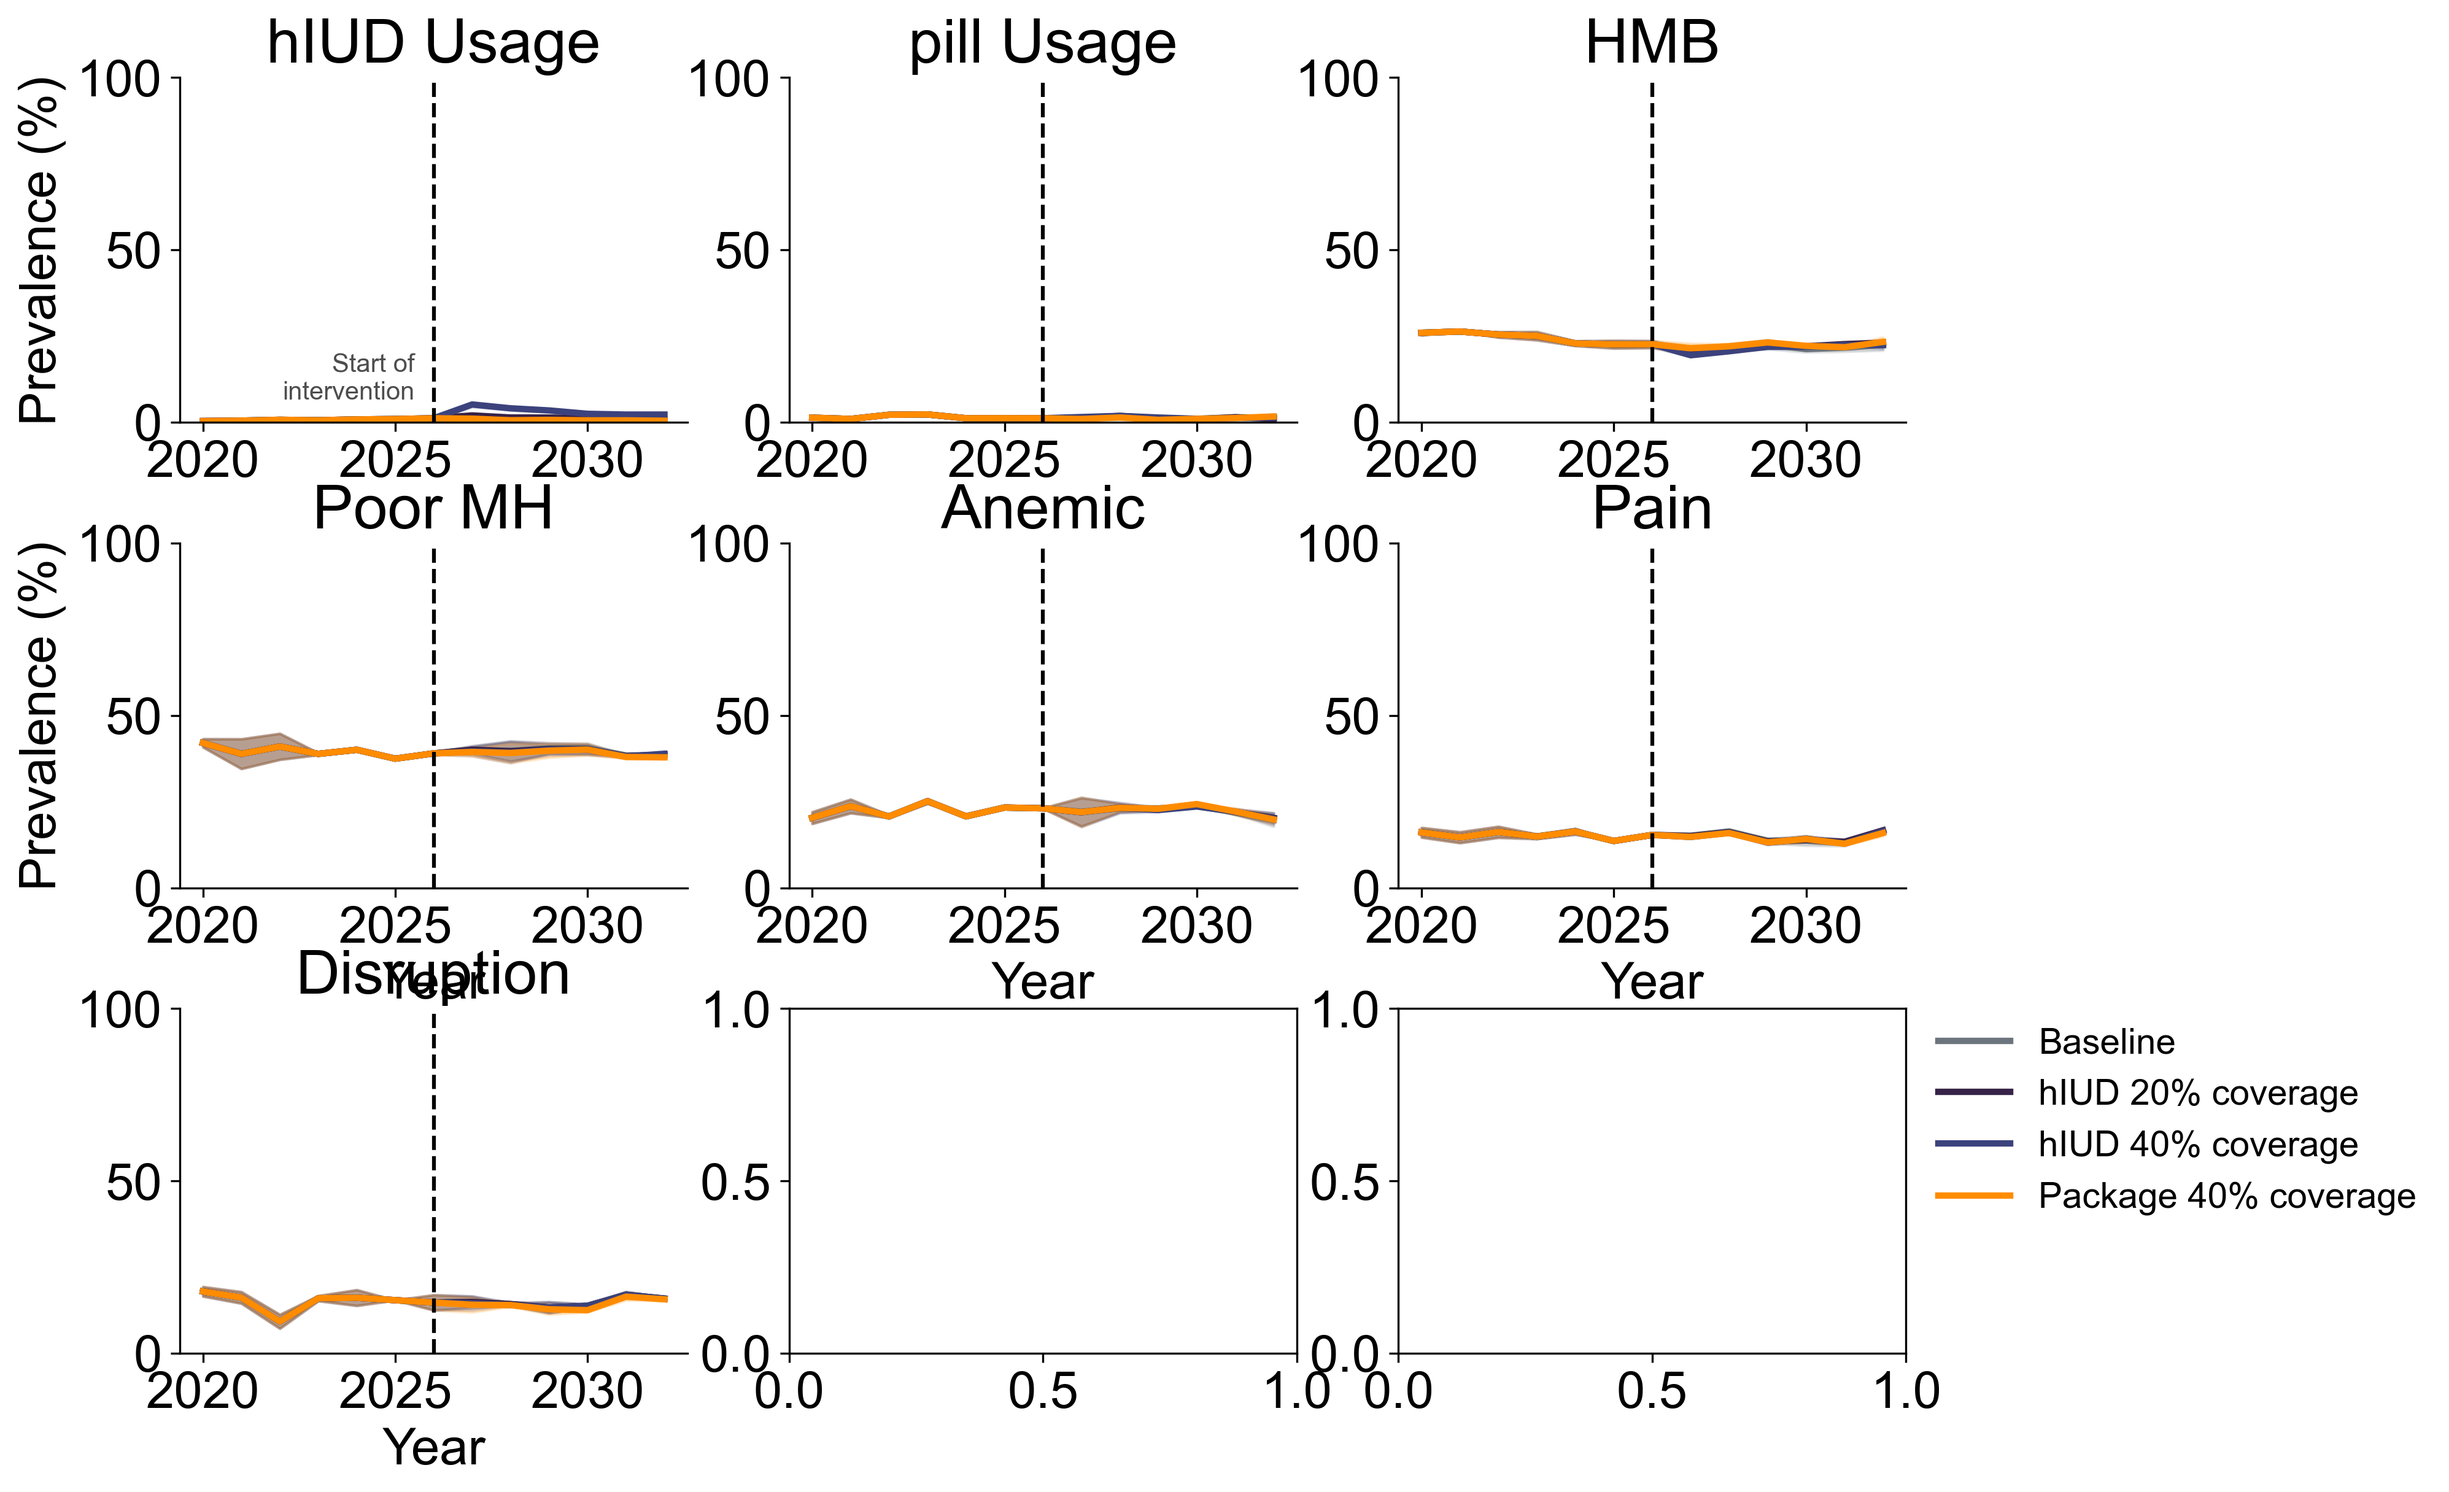
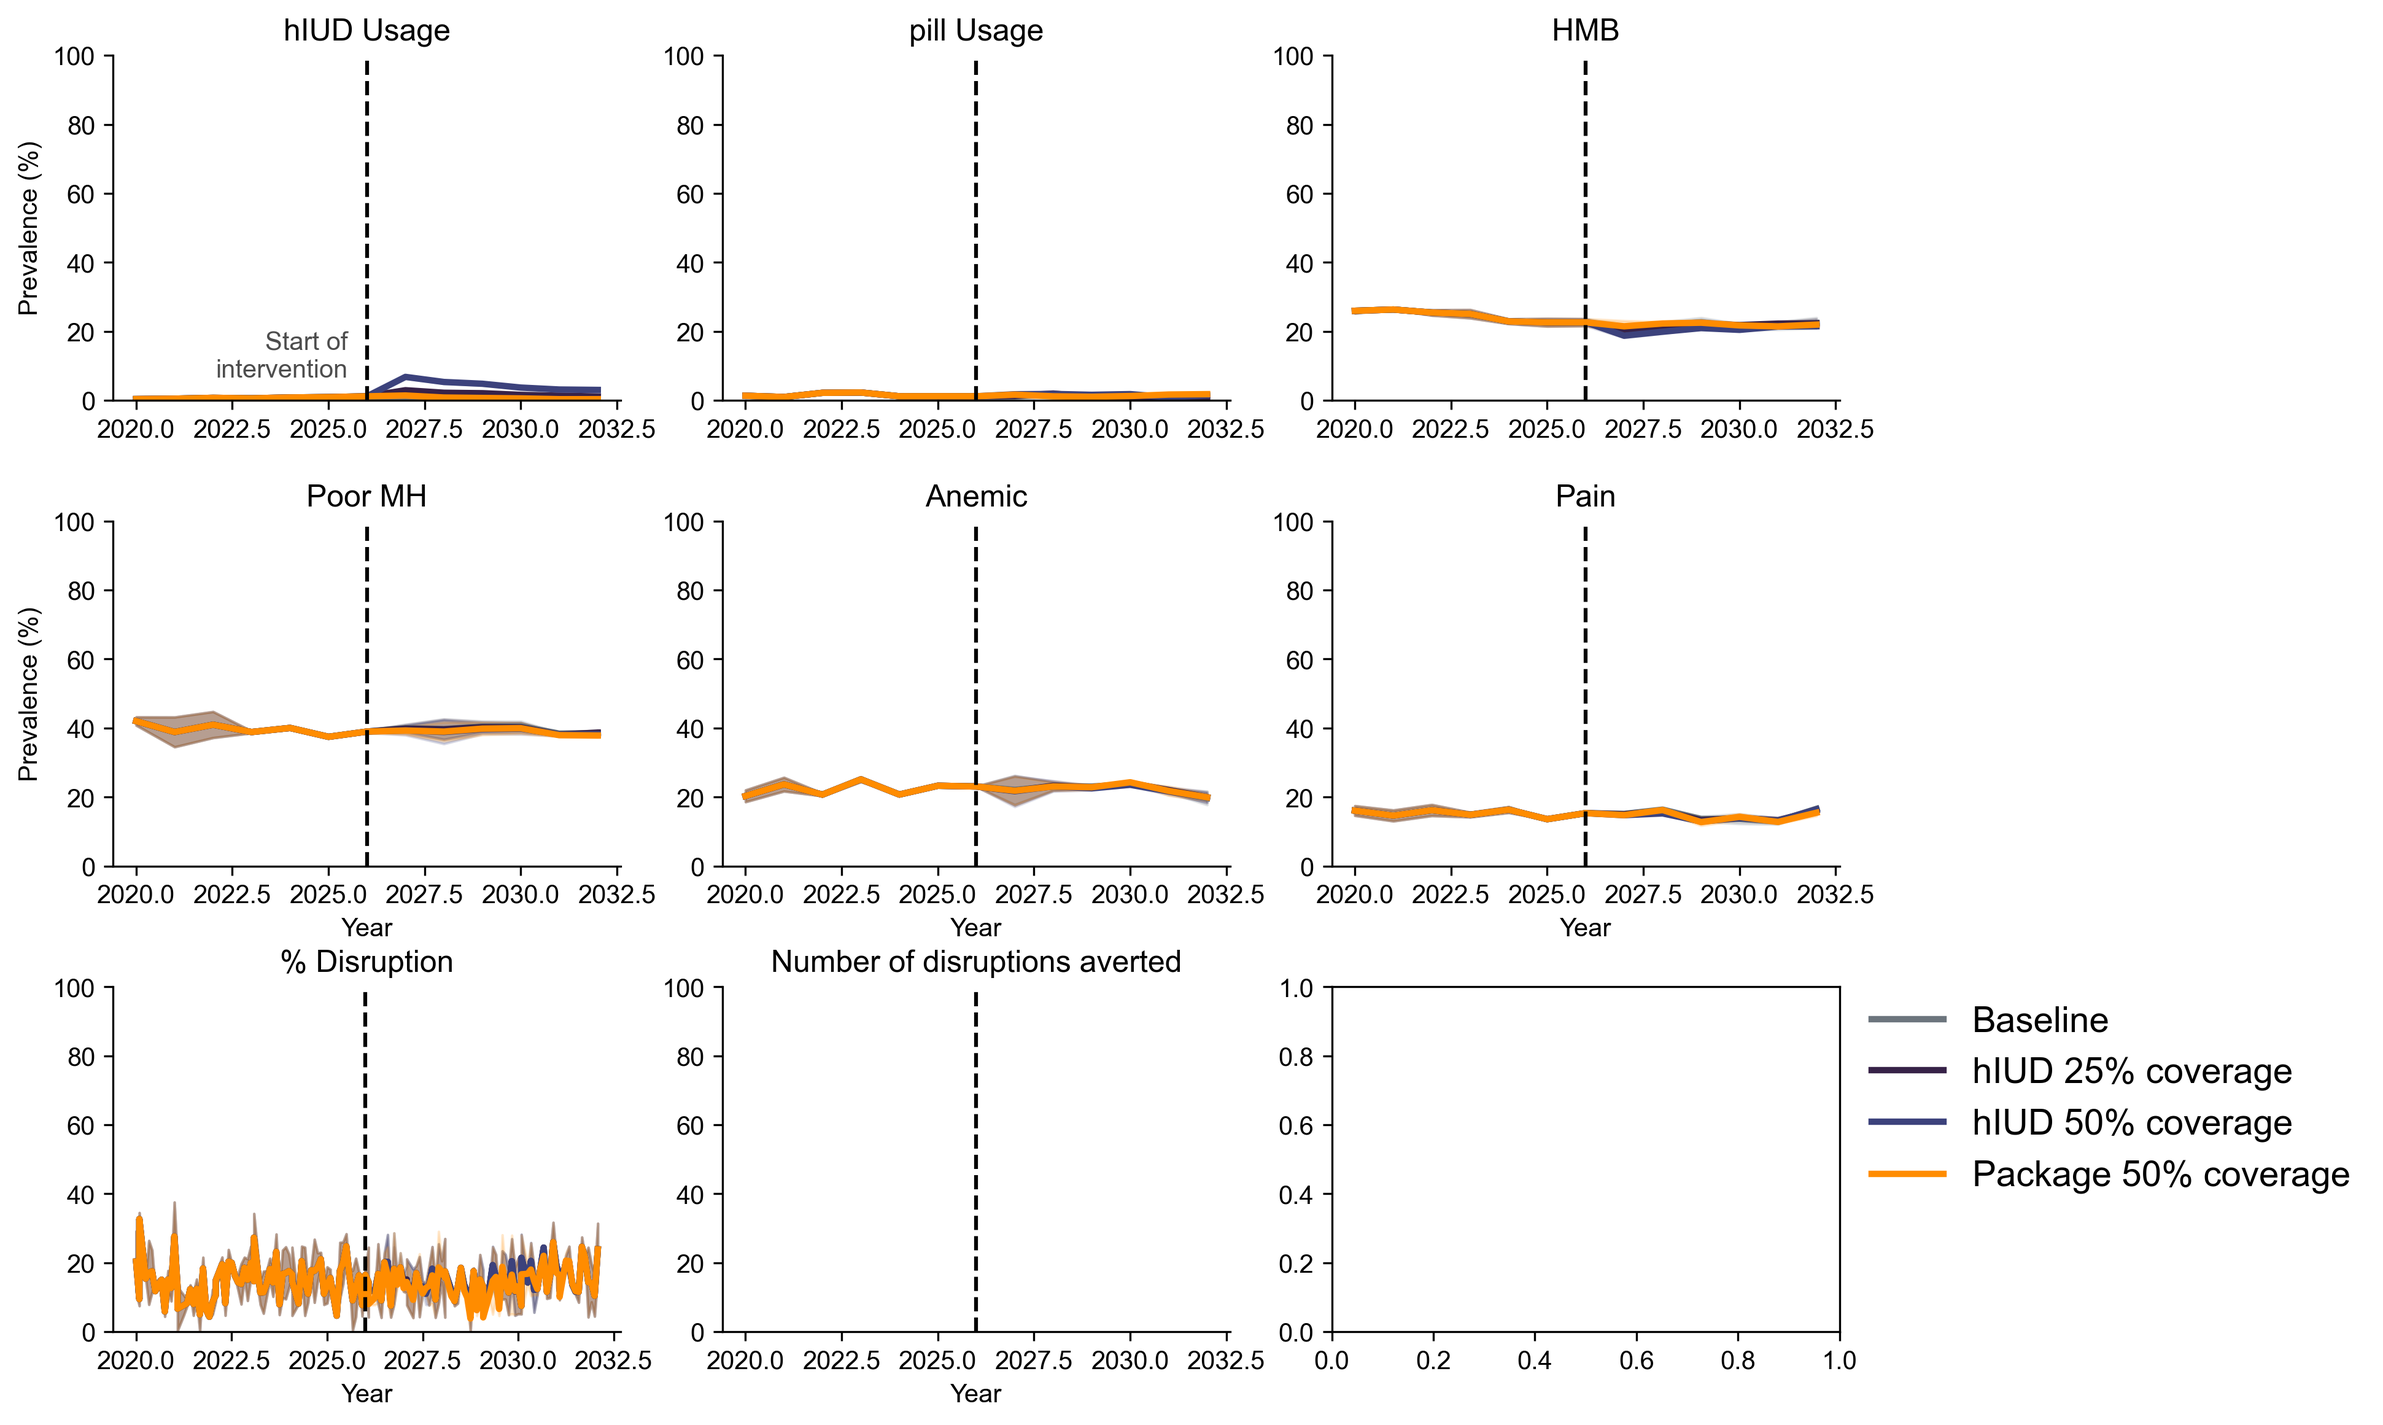
plotting update

diff --git a/run_kenya_nsaid_added.py b/run_kenya_nsaid_added.py
@@ -220,7 +220,7 @@ def plot_stochastic_results(stats, years_annual, years_monthly, si_annual, si_mo
             'p75': 'Package 75% coverage'
         }
     
-    set_font(20)
+    set_font(10)
     
     fig, axes = pl.subplots(3, 3, figsize=(15, 9))
     axes = axes.ravel()
@@ -607,7 +607,7 @@ if __name__ == '__main__':
         # Initialize dictionaries to store results for each scenario
         scenarios = ['baseline', 'hiud25', 'hiud50',  'p25', 'p50', 'p75']
         res_to_plot = ['hiud','pill', 'hmb', 'poor_mh', 'anemic', 'pain', 'prop_disrupted','n_disruptions']
-        labels = ['hIUD Usage','pill Usage', 'HMB ', 'Poor MH', 'Anemic', 'Pain', 'Disruption','Number of disruptions averted']    
+        labels = ['hIUD Usage','pill Usage', 'HMB ', 'Poor MH', 'Anemic', 'Pain', '% Disruption','Number of disruptions averted']    
         
         # Dictionary to store all runs
         all_results = {scenario: {res: [] for res in res_to_plot} for scenario in scenarios}
@@ -670,25 +670,35 @@ if __name__ == '__main__':
         # si = sc.findfirst(years, 2020)
         # years = years[si:]
         
-        set_font(20)
-        
+        import matplotlib.pyplot as plt
+
+        plt.rcParams['font.family'] = 'Arial'   # or 'Calibri', 'Times New Roman'
+        plt.rcParams['font.size'] = 10   
+        set_font(10)
+     
         # ---- PLOT: All scenarios, variable scale
         plot_stochastic_results(
-            stats=stats, years=years, si=si, colors=colors,
+            stats=stats, years_annual=years_annual, 
+            years_monthly=years_monthly,
+            si_annual=si_annual,
+            si_monthly=si_monthly, colors=colors,
             fixed_scale=False,
             plotfolder=plotfolder_stochastic,
             res_to_plot=['hiud', 'pill', 'hmb', 'poor_mh', 'anemic', 'pain', 'prop_disrupted','n_disruptions'],  
-            labels=['hIUD Usage', 'pill Usage', 'HMB', 'Poor MH', 'Anemic', 'Pain', 'Disruption','Number of disruptions averted'],  
+            labels=['hIUD Usage', 'pill Usage', 'HMB', 'Poor MH', 'Anemic', 'Pain', '% Disruption','Number of disruptions averted'],  
             filename='hmb_scenario-package_stochastic_results.png'
         )
         
         # ---- PLOT: All scenarios, fixed 0-100 scale
         plot_stochastic_results(
-            stats=stats, years=years, si=si, colors=colors,
+            stats=stats, years_annual=years_annual, 
+            years_monthly=years_monthly,
+            si_annual=si_annual,
+            si_monthly=si_monthly, colors=colors,
             fixed_scale=True,
             plotfolder=plotfolder_stochastic,
             res_to_plot=['hiud', 'pill', 'hmb', 'poor_mh', 'anemic', 'pain', 'prop_disrupted','n_disruptions'],  
-            labels=['hIUD Usage', 'pill Usage', 'HMB', 'Poor MH', 'Anemic', 'Pain', 'Disruption','Number of disruptions averted'],  
+            labels=['hIUD Usage', 'pill Usage', 'HMB', 'Poor MH', 'Anemic', 'Pain', '% Disruption','Number of disruptions averted'],  
             filename='hmb_scenario-package_stochastic_results_y-axis-scaled-0-100.png'
         )
         
@@ -697,23 +707,29 @@ if __name__ == '__main__':
         scenarios_subset = ['baseline', 'hiud25', 'hiud50', 'p50']
         # make the plots
         plot_stochastic_results(
-            stats=stats, years=years, si=si, colors=colors,
+            stats=stats, years_annual=years_annual, 
+            years_monthly=years_monthly,
+            si_annual=si_annual,
+            si_monthly=si_monthly,colors=colors,
             scenarios_to_plot=scenarios_subset,
             fixed_scale=False,
             plotfolder=plotfolder_stochastic,
             res_to_plot=['hiud', 'pill', 'hmb', 'poor_mh', 'anemic', 'pain', 'prop_disrupted','n_disruptions'],  
-            labels=['hIUD Usage', 'pill Usage', 'HMB', 'Poor MH', 'Anemic', 'Pain', 'Disruption','Number of disruptions averted'],  
+            labels=['hIUD Usage', 'pill Usage', 'HMB', 'Poor MH', 'Anemic', 'Pain', '% Disruption','Number of disruptions averted'],  
             filename='hmb_package_stochastic_results_subset-scenarios.png'
         )
         
         # ---- PLOT: Subset of scenarios, fixed 0-100 scale
         plot_stochastic_results(
-            stats=stats, years=years, si=si, colors=colors,
+            stats=stats, years_annual=years_annual, 
+            years_monthly=years_monthly,
+            si_annual=si_annual,
+            si_monthly=si_monthly, colors=colors,
             scenarios_to_plot=scenarios_subset,
             fixed_scale=True,
             plotfolder=plotfolder_stochastic,
             res_to_plot=['hiud', 'pill', 'hmb', 'poor_mh', 'anemic', 'pain', 'prop_disrupted','n_disruptions'],  
-            labels=['hIUD Usage', 'pill Usage', 'HMB', 'Poor MH', 'Anemic', 'Pain', 'Disruption','Number of disruptions averted'],  
+            labels=['hIUD Usage', 'pill Usage', 'HMB', 'Poor MH', 'Anemic', 'Pain', '% Disruption','Number of disruptions averted'],  
             filename='hmb_package_stochastic_results_subset-scenarios_y-axis-scaled-0-100.png'
         )
         
